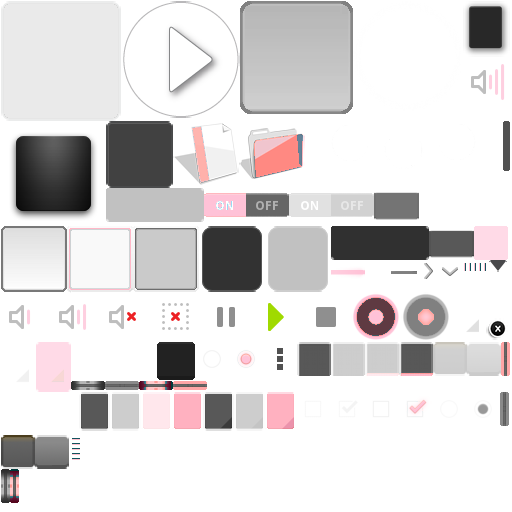
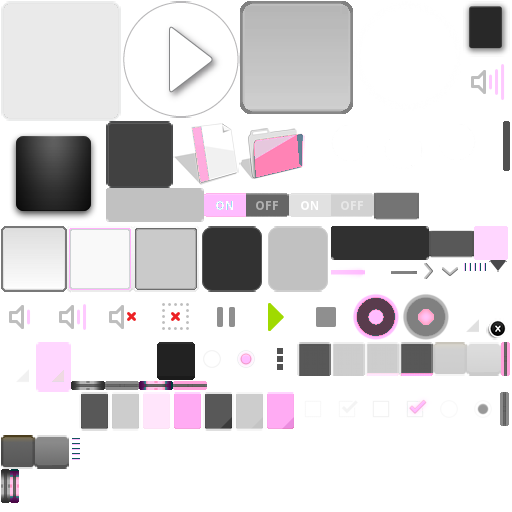
merging back

diff --git a/gui/kivydi/expansionlist.py b/gui/kivydi/expansionlist.py
@@ -391,24 +391,24 @@ class GameListItem(MDListItem, CommonElevationBehavior):
 
 class GameListPanel(MDExpansionPanel):
     """
-    Expansion panel for displaying game information in the game list.
+    Expansion panel for displaying game information in the game or hintlist.
     
     This class is used to display a game item in the game list.
     It is a subclass of MDExpansionPanel and can display either
     slot items (if hints are present) or game metadata.
     
     Attributes:
-        game_module (StringProperty): The module to use for the game
-        game_data (DictProperty): Dictionary containing game information
+        item_name (StringProperty): The name of the item
+        item_data (DictProperty): Dictionary containing item information
         icon (StringProperty): The icon to display (default: "game-controller")
-        leading_avatar (MDListItemLeadingAvatar): Avatar widget for the game
+        leading_avatar (MDListItemLeadingAvatar): Avatar widget for the item
         panel_header (MDExpansionPanelHeader): Header widget for the panel
         panel_content (MDExpansionPanelContent): Content widget for the panel
         panel_header_layout (ObjectProperty): Layout for the panel header
         on_game_select (ObjectProperty): Callback function for game selection
     """
-    game_module: StringProperty
-    game_data: DictProperty
+    item_name: StringProperty
+    item_data: DictProperty
     icon = StringProperty("game-controller")
     leading_avatar: MDListItemLeadingAvatar
     panel_header: MDExpansionPanelHeader
@@ -417,24 +417,24 @@ class GameListPanel(MDExpansionPanel):
     on_game_select: ObjectProperty = None
     app: MDApp
     
-    def __init__(self, game_module, game_data, on_game_select=None, **kwargs):
+    def __init__(self, item_name, item_data, on_game_select=None, **kwargs):
         """
         Initialize the GameListPanel.
         
         Args:
-            game_tag (str): The tag identifier for the game
-            game_data (dict): Dictionary containing game information
+            item_name (str): The name of the item
+            item_data (dict): Dictionary containing item information
             on_game_select: Callback function for game selection
             **kwargs: Additional keyword arguments for MDExpansionPanel
         """
         super().__init__(**kwargs)
         self.app = MDApp.get_running_app()
-        self.game_module = game_module
-        self.game_data = game_data
+        self.item_name = item_name
+        self.item_data = item_data
         self.on_game_select = on_game_select
         self.width = 256
         self.pos_hint = {"center_y": 0.5}
-        if "hints" in self.game_data:
+        if "hints" in self.item_data:
             Clock.schedule_once(lambda x: self.populate_slot_item())
         else:
             Clock.schedule_once(lambda x: self.populate_game_item())
@@ -448,18 +448,18 @@ class GameListPanel(MDExpansionPanel):
         """
         self.panel_header = self.ids.panel_header
         self.panel_content = self.ids.panel_content
-        self.panel_header_layout = SlotListItemHeader(game_data=self.game_data, panel=self)
+        self.panel_header_layout = SlotListItemHeader(game_data=self.item_data, panel=self)
         self.leading_avatar = self.panel_header_layout.ids.leading_avatar
         self.panel_header.add_widget(self.panel_header_layout)
-        self.leading_avatar.source = self.game_data['avatar']
-        for item, data in self.game_data.items():
+        self.leading_avatar.source = self.item_data['avatar']
+        for item, data in self.item_data.items():
             if item == "bk_mode" and data:
                 self.panel_header_layout.ids.slot_item_container.add_widget(BaseListItemIcon(icon="food", theme_font_size="Custom", font_size=dp(14), pos_hint={"center_y": 0.5}),1)
             elif item == "in_call" and data:
                 self.panel_header_layout.ids.slot_item_container.add_widget(BaseListItemIcon(icon="headphones", theme_font_size="Custom", font_size=dp(14), pos_hint={"center_y": 0.5}),1)
             elif item == "game_status" and data == "GOAL":
                 self.panel_header_layout.ids.game_item_container.add_widget(BaseListItemIcon(icon="flag_checkered", theme_font_size="Custom", font_size=dp(14), pos_hint={"center_y": 0.5}),1)
-        for item in self.game_data["hints"]:
+        for item in self.item_data["hints"]:
             i = 1 if self.app.theme_cls.theme_style == "Dark" else 0
             item_colors = {
                 "trap": self.app.theme_mw.markup_tags_theme.trap_item_color[i],
@@ -467,7 +467,7 @@ class GameListPanel(MDExpansionPanel):
                 "useful": self.app.theme_mw.markup_tags_theme.useful_item_color[i],
                 "progression": self.app.theme_mw.markup_tags_theme.progression_item_color[i],
             }
-            self.panel_content.add_widget(SlotListItem(game_data=item, game_status=self.game_data['game_status'], shadow_colors=item_colors))
+            self.panel_content.add_widget(SlotListItem(game_data=item, game_status=self.item_data['game_status'], shadow_colors=item_colors))
 
     def populate_game_item(self):
         """
@@ -480,32 +480,32 @@ class GameListPanel(MDExpansionPanel):
         self.panel_header = self.ids.panel_header
         self.panel_content = self.ids.panel_content
         self.panel_header_layout = GameListItemHeader(
-            game_module=self.game_module, 
-            game_data=self.game_data, 
+            game_module=self.item_name, 
+            game_data=self.item_data, 
             panel=self,
             on_game_select=self.on_game_select
         )
         self.leading_avatar = self.panel_header_layout.ids.leading_avatar
         self.panel_header.add_widget(self.panel_header_layout)
-        self.leading_avatar.source = self.game_data['cover_url']
-        for item in self.game_data:
-            if item == "genres" and self.game_data['genres']:
-                list_tooltip = self.list_tooltip(self.game_data['genres'])
+        self.leading_avatar.source = self.item_data['cover_url']
+        for item in self.item_data:
+            if item == "genres" and self.item_data['genres']:
+                list_tooltip = self.list_tooltip(self.item_data['genres'])
                 self.panel_content.add_widget(GameListItem(text=list_tooltip['label'], icon="dice-multiple", tooltip_text=list_tooltip['tooltip']))
-            elif item == "themes" and self.game_data['themes']:
-                list_tooltip = self.list_tooltip(self.game_data['themes'])
+            elif item == "themes" and self.item_data['themes']:
+                list_tooltip = self.list_tooltip(self.item_data['themes'])
                 self.panel_content.add_widget(GameListItem(text=list_tooltip['label'], icon="sword", tooltip_text=list_tooltip['tooltip']))
-            elif item == "keywords" and self.game_data['keywords']:
-                list_tooltip = self.list_tooltip(self.game_data['keywords'])
-                self.panel_content.add_widget(GameListItem(text=list_tooltip['label'], icon="tag-outline", tooltip_text=list_tooltip['tooltip']))
-            elif item == "player_perspectives" and self.game_data['player_perspectives']:
-                list_tooltip = self.list_tooltip(self.game_data['player_perspectives'])
+            # elif item == "keywords" and self.item_data['keywords']:
+            #     list_tooltip = self.list_tooltip(self.item_data['keywords'])
+            #     self.panel_content.add_widget(GameListItem(text=list_tooltip['label'], icon="tag-outline", tooltip_text=list_tooltip['tooltip']))
+            elif item == "player_perspectives" and self.item_data['player_perspectives']:
+                list_tooltip = self.list_tooltip(self.item_data['player_perspectives'])
                 self.panel_content.add_widget(GameListItem(text=list_tooltip['label'], icon="eye-outline", tooltip_text=list_tooltip['tooltip']))
-            elif item == "rating" and self.game_data['rating']:
-                list_tooltip = self.list_tooltip(self.game_data['rating'])
+            elif item == "rating" and self.item_data['rating']:
+                list_tooltip = self.list_tooltip(self.item_data['rating'])
                 self.panel_content.add_widget(GameListItem(text=list_tooltip['label'], icon="alert-box-outline", tooltip_text=list_tooltip['tooltip']))
-            elif item == "release_date" and self.game_data['release_date']:
-                self.panel_content.add_widget(GameListItem(text=str(self.game_data['release_date']), icon="calendar-month", tooltip_text=str(self.game_data['release_date'])))
+            elif item == "release_date" and self.item_data['release_date']:
+                self.panel_content.add_widget(GameListItem(text=str(self.item_data['release_date']), icon="calendar-month", tooltip_text=str(self.item_data['release_date'])))
                 
     def list_tooltip(self, item_list: list[str]) -> dict[str, str]:
         """

diff --git a/CommonClient.py b/CommonClient.py
@@ -193,11 +193,17 @@ class ClientCommandProcessor(CommandProcessor):
         if not self.ctx.game:
             self.output(f"No game set, cannot determine {name}.")
             return False
+        self.output(f"Item Names for {self.ctx.game}")
+        for item_name in AutoWorldRegister.world_types[self.ctx.game].item_name_to_id:
+            self.output(item_name)
 
         lookup = self.get_current_datapackage().get(key)
         if lookup is None:
             self.output("datapackage not yet loaded, try again")
             return False
+        self.output(f"Item Group Names for {self.ctx.game}")
+        for group_name in AutoWorldRegister.world_types[self.ctx.game].item_name_groups:
+            self.output(group_name)
 
         self.output(f"{name} for {self.ctx.game}")
         for key in lookup:

diff --git a/gui/console.py b/gui/console.py
@@ -126,7 +126,6 @@ class ConsoleScreen(MDScreen, ThemableBehavior):
 
 
     def init_important(self):
-
         self.consolegrid = ConsoleLayout(width=Window.width, height=Window.height-185)
         self.add_widget(self.consolegrid)
         self.add_widget(self.bottom_appbar)
@@ -146,9 +145,8 @@ class ConsoleScreen(MDScreen, ThemableBehavior):
         self.consolegrid.add_widget(self.ui_console)
 
     async def set_slots_list(self):
-
         self.slots_mdlist.clear_widgets()
         for slot_name, slot_data in testdict.items():
             await asynckivy.sleep(0)
-            slot = GameListPanel(game_module=slot_name, game_data=slot_data)
+            slot = GameListPanel(item_name=slot_name, item_data=slot_data)
             self.slots_mdlist.add_widget(slot)

diff --git a/gui/launcher.py b/gui/launcher.py
@@ -310,8 +310,8 @@ class LauncherScreen(MDScreen, ThemableBehavior):
         for module_name, game_data in matching_games.items():
             await asynckivy.sleep(0)
             game = GameListPanel(
-                game_module=module_name, 
-                game_data=game_data,
+                item_name=module_name, 
+                item_data=game_data,
                 on_game_select=lambda x, name=module_name: self.on_game_selected(name)
             )
             self.games_mdlist.add_widget(game)